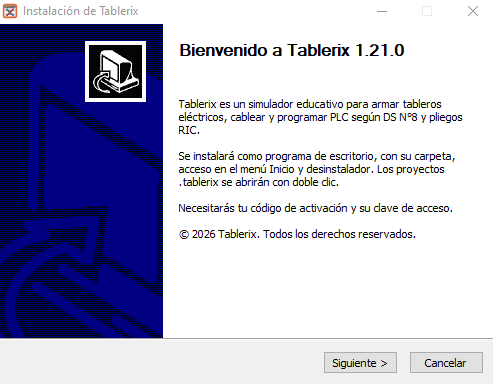
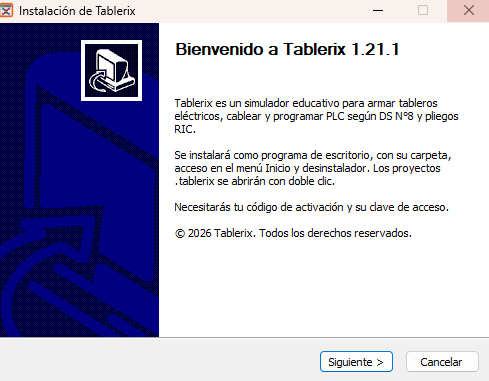
Actualizar capturas del instalador a 1.21.1 y censurar el ID
Claude-Session: https://claude.ai/code/session_017Q9Tx2aWNq6FLuaXFQNU6K

Changed region(s): [[0.0, 0.0, 1.0, 0.9816], [0.8896, 0.0, 1.0, 0.0577]]

diff --git a/activacion.html b/activacion.html
@@ -124,8 +124,8 @@ footer .wrap{display:flex;flex-wrap:wrap;gap:12px 24px;justify-content:space-bet
       <h1>Activa <em>Tablerix Pro</em> en 5 pasos</h1>
       <p class="lead">Guarda esta página. Aquí están los pasos para activar tu licencia. Tu código de activación y tu clave de acceso llegarán por correo en un plazo máximo de 24 horas hábiles.</p>
       <ol class="pasos" style="padding-left:20px;display:grid;gap:14px;margin:28px 0 0">
-        <li><b>Instala Tablerix.</b> Descarga el instalador y ejecútalo en tu computador con Windows.<figure style="margin:12px 0 0"><img src="img/instalador-bienvenida.png" width="484" height="384" loading="lazy" alt="Pantalla de bienvenida del instalador de Tablerix 1.21.0" style="max-width:100%;height:auto;border-radius:10px;border:1px solid var(--line)"></figure></li>
-        <li><b>Copia el «ID de este equipo».</b> Aparece en la pantalla de activación que se abre al instalar. Usa el botón «Copiar ID».<figure style="margin:12px 0 0"><img src="img/instalador-id-activacion.png" width="484" height="384" loading="lazy" alt="Pantalla de activación del instalador con el ID de este equipo y el botón Copiar ID" style="max-width:100%;height:auto;border-radius:10px;border:1px solid var(--line)"></figure></li>
+        <li><b>Instala Tablerix.</b> Descarga el instalador y ejecútalo en tu computador con Windows.<figure style="margin:12px 0 0"><img src="img/instalador-bienvenida.png" width="489" height="381" loading="lazy" alt="Pantalla de bienvenida del instalador de Tablerix 1.21.1" style="max-width:100%;height:auto;border-radius:10px;border:1px solid var(--line)"></figure></li>
+        <li><b>Copia el «ID de este equipo».</b> Aparece en la pantalla de activación que se abre al instalar. Usa el botón «Copiar ID».<figure style="margin:12px 0 0"><img src="img/instalador-id-activacion.png" width="495" height="382" loading="lazy" alt="Pantalla de activación del instalador con el ID de este equipo y el botón Copiar ID" style="max-width:100%;height:auto;border-radius:10px;border:1px solid var(--line)"></figure></li>
         <li><b>Envía tu ID por correo</b> a <span style="user-select:all">contacto@tablerix.cl</span> con el asunto «Activación Tablerix Pro» y tu nombre.</li>
         <li><b>Espera tu código y tu clave.</b> Llegarán por correo en un plazo máximo de 24 horas hábiles. Cada licencia se genera para tu equipo.</li>
         <li><b>Activa el programa.</b> Pega el código en la pantalla de activación junto con la clave. La clave se pide una sola vez en cada equipo.</li>
